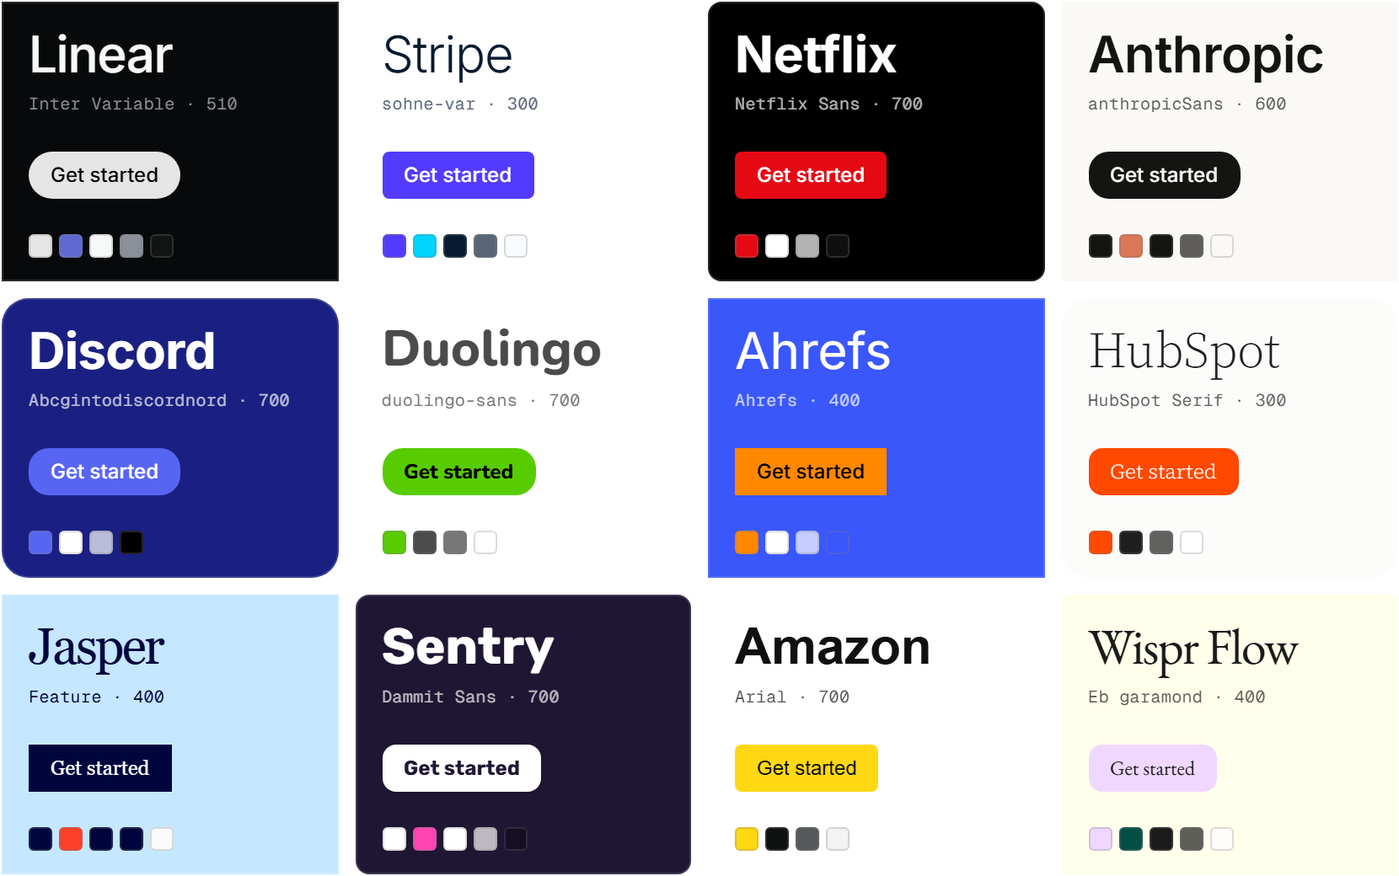
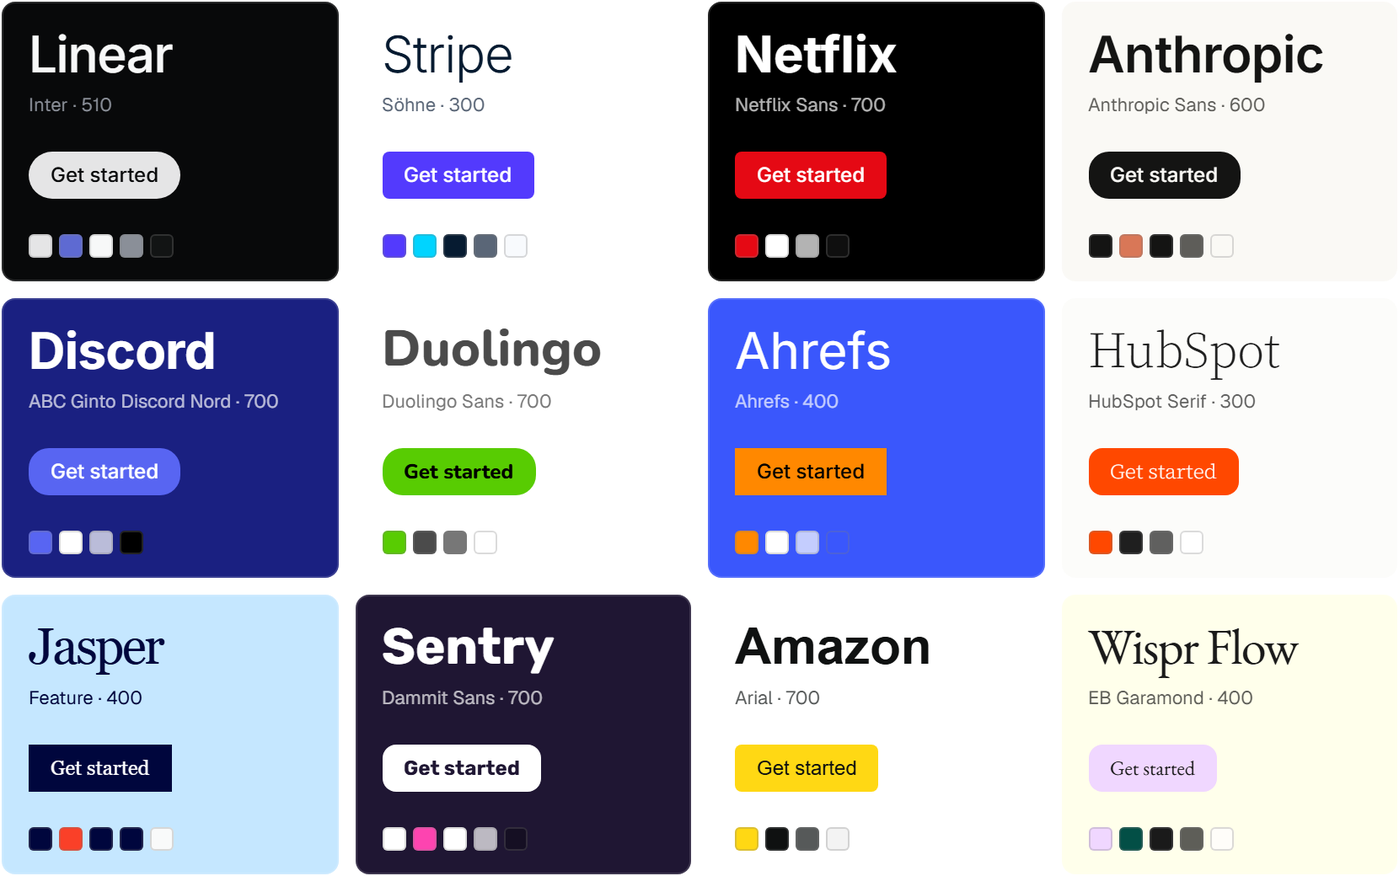
README: say it once, one-line use, a real excerpt, a calmer contact sheet
Short title under the banner and one sentence; no static badges. Use a brand
leads with the curl from brands/<slug>/DESIGN.md, the agent prompt only
downloads the file, and Briefatto Board is a separate optional step. A verbatim
excerpt of brands/linear/DESIGN.md shows the colour tokens and their capture
line. Contact sheet: clean face names from each file, one frame for every card;
the banner keeps only chromatic chips with a hairline. The table drops the Guide
column for one line on the guide URLs; the ranking line is gone.

diff --git a/README.md b/README.md
@@ -5,15 +5,9 @@
   </picture>
 </p>
 
-<p align="center">
-  <a href="LICENSE"><img src="https://img.shields.io/badge/licence-MIT-151515?style=flat-square" alt="MIT licence"></a>
-  <a href="#the-files"><img src="https://img.shields.io/badge/brands-110-2538E8?style=flat-square" alt="110 brands"></a>
-  <a href="https://github.com/Briefatto/briefatto-board"><img src="https://img.shields.io/badge/built%20for-every%20agent-62625D?style=flat-square" alt="Built for every agent"></a>
-</p>
+# DESIGN.md Gallery
 
-# DESIGN.md Gallery: 110 brands, measured from their rendered sites
-
-Drop-in `DESIGN.md` files that every agent reads before visual work. Each holds a brand's colours, type, corner radii, spacing and component rules, measured from the brand's rendered public site and checked with Google's DESIGN.md linter. Each file names the pages and viewports it was measured from.
+Drop-in `DESIGN.md` files for 110 brands that every agent reads before visual work, measured from each brand's rendered public site and checked with Google's DESIGN.md linter.
 
 <p>
   <a href="#the-files">
@@ -24,155 +18,177 @@ Drop-in `DESIGN.md` files that every agent reads before visual work. Each holds 
   </a>
 </p>
 
-<sub>Twelve of the 110, drawn from their tokens: background, display face and weight, primary button, corner radius and palette. Commercial faces are shown in an open stand-in.</sub>
+<sub>Drawn from each brand's tokens: background, display weight, primary button, radius and palette.</sub>
 
-## Use a brand in one line
-
-Paste this into any agent. Swap `linear` for any folder in [`brands/`](brands/).
-
-```text
-Download https://briefatto.com/guides/linear-design-md/DESIGN.md
-and save it as DESIGN.md in the project root.
-Then run `npx briefatto-board install` and follow
-the Briefatto Board skill for all visual work in this project.
-```
-
-Or from a terminal:
+## Use a brand
 
 ```sh
 curl -o DESIGN.md \
   https://raw.githubusercontent.com/Briefatto/design-md-gallery/main/brands/linear/DESIGN.md
+```
+
+Swap `linear` for any folder in [`brands/`](brands/). Or paste this into any agent:
+
+```text
+Download
+https://raw.githubusercontent.com/Briefatto/design-md-gallery/main/brands/linear/DESIGN.md
+and save it as DESIGN.md in the project root.
+```
+
+Optional next step: [Briefatto Board](https://github.com/Briefatto/briefatto-board) versions the guide and checks every piece your agent renders.
+
+```sh
 npx briefatto-board install
 ```
+
+## What a file looks like
+
+The colour tokens from [`brands/linear/DESIGN.md`](brands/linear/DESIGN.md):
+
+```yaml
+colors:
+  primary: "rgb(229, 229, 230)"
+  background: "rgb(8, 9, 10)"
+  surface: "rgb(18, 20, 20)"
+  foreground: "rgb(247, 248, 248)"
+  muted: "rgb(138, 143, 152)"
+  border: "rgb(46, 46, 50)"
+  on-primary: "rgb(8, 9, 10)"
+  accent: "rgb(94, 106, 210)"
+```
+
+And where they came from, in the same file:
+
+> Built from [/](https://linear.app/) and [/pricing](https://linear.app/pricing), captured on 2026-11-21 UTC at 1440×900 and 390×844. The front matter holds the computed values as portable tokens.
 
 ## What every file carries
 
 - **Tokens** in YAML front matter, to Google's DESIGN.md spec: colours, typography, radii, spacing and components.
 - **Prose** an agent can act on: overview, colour roles, components, layout, voice, do's and don'ts.
-- **Where it came from:** for example, "Built from / and /pricing, captured on 2026-11-21 UTC at 1440×900 and 390×844."
+- **Where it came from:** the pages and viewports it was measured from, and the capture date.
 - **A preview** (`preview.png`) of the palette and type.
 
-Each brand's guide on briefatto.com lists the page and viewport behind every colour and radius, and its Markdown version does the same for every spacing step. Every file drops into [Briefatto Board](https://github.com/Briefatto/briefatto-board), which versions the guide and checks every piece your agent renders.
+Each brand's guide on briefatto.com lists the page and viewport behind every colour and radius, and its Markdown version does the same for every spacing step.
 
 Want your own brand instead? Run `npx briefatto-board adopt .` on your site and your agent writes yours.
 
 ## The files
 
-| Brand | File | Guide | Source site |
-| :--- | :--- | :--- | :--- |
-| 10Web | [DESIGN.md](brands/10web/DESIGN.md) | [Guide](https://briefatto.com/guides/10web-design-md/) | 10web.io |
-| 1Password | [DESIGN.md](brands/1password/DESIGN.md) | [Guide](https://briefatto.com/guides/1password-design-md/) | 1password.com |
-| Abridge | [DESIGN.md](brands/abridge/DESIGN.md) | [Guide](https://briefatto.com/guides/abridge-design-md/) | abridge.com |
-| Ahrefs | [DESIGN.md](brands/ahrefs/DESIGN.md) | [Guide](https://briefatto.com/guides/ahrefs-design-md/) | ahrefs.com |
-| Airtable | [DESIGN.md](brands/airtable/DESIGN.md) | [Guide](https://briefatto.com/guides/airtable-design-md/) | airtable.com |
-| Algolia | [DESIGN.md](brands/algolia/DESIGN.md) | [Guide](https://briefatto.com/guides/algolia-design-md/) | algolia.com |
-| Amazon | [DESIGN.md](brands/amazon/DESIGN.md) | [Guide](https://briefatto.com/guides/amazon-design-md/) | www.amazon.com |
-| Animejs | [DESIGN.md](brands/animejs/DESIGN.md) | [Guide](https://briefatto.com/guides/animejs-design-md/) | animejs.com |
-| Annnimate | [DESIGN.md](brands/annnimate/DESIGN.md) | [Guide](https://briefatto.com/guides/annnimate-design-md/) | annnimate.com |
-| Ant Design | [DESIGN.md](brands/ant-design/DESIGN.md) | [Guide](https://briefatto.com/guides/ant-design-design-md/) | ant.design |
-| Anthropic | [DESIGN.md](brands/anthropic/DESIGN.md) | [Guide](https://briefatto.com/guides/anthropic-design-md/) | anthropic.com |
-| Appwrite | [DESIGN.md](brands/appwrite/DESIGN.md) | [Guide](https://briefatto.com/guides/appwrite-design-md/) | appwrite.io |
-| Asana | [DESIGN.md](brands/asana/DESIGN.md) | [Guide](https://briefatto.com/guides/asana-design-md/) | asana.com |
-| Astral | [DESIGN.md](brands/astral/DESIGN.md) | [Guide](https://briefatto.com/guides/astral-design-md/) | astral.sh |
-| Astro | [DESIGN.md](brands/astro/DESIGN.md) | [Guide](https://briefatto.com/guides/astro-design-md/) | astro.build |
-| Attio | [DESIGN.md](brands/attio/DESIGN.md) | [Guide](https://briefatto.com/guides/attio-design-md/) | attio.com |
-| Audi | [DESIGN.md](brands/audi/DESIGN.md) | [Guide](https://briefatto.com/guides/audi-design-md/) | www.audi.com/en |
-| Avenue | [DESIGN.md](brands/avenue/DESIGN.md) | [Guide](https://briefatto.com/guides/avenue-design-md/) | avenue.app |
-| Base44 | [DESIGN.md](brands/base44/DESIGN.md) | [Guide](https://briefatto.com/guides/base44-design-md/) | base44.com |
-| beehiiv | [DESIGN.md](brands/beehiiv/DESIGN.md) | [Guide](https://briefatto.com/guides/beehiiv-design-md/) | www.beehiiv.com |
-| Biome | [DESIGN.md](brands/biome/DESIGN.md) | [Guide](https://briefatto.com/guides/biome-design-md/) | biomejs.dev |
-| Bulma | [DESIGN.md](brands/bulma/DESIGN.md) | [Guide](https://briefatto.com/guides/bulma-design-md/) | bulma.io |
-| Bun | [DESIGN.md](brands/bun/DESIGN.md) | [Guide](https://briefatto.com/guides/bun-design-md/) | bun.sh |
-| Calendly | [DESIGN.md](brands/calendly/DESIGN.md) | [Guide](https://briefatto.com/guides/calendly-design-md/) | calendly.com |
-| Chromatic | [DESIGN.md](brands/chromatic/DESIGN.md) | [Guide](https://briefatto.com/guides/chromatic-design-md/) | chromatic.com |
-| Circle | [DESIGN.md](brands/circle/DESIGN.md) | [Guide](https://briefatto.com/guides/circle-design-md/) | circle.so |
-| Clay | [DESIGN.md](brands/clay/DESIGN.md) | [Guide](https://briefatto.com/guides/clay-design-md/) | clay.com |
-| Clerk | [DESIGN.md](brands/clerk/DESIGN.md) | [Guide](https://briefatto.com/guides/clerk-design-md/) | clerk.com |
-| ClickUp | [DESIGN.md](brands/clickup/DESIGN.md) | [Guide](https://briefatto.com/guides/clickup-design-md/) | clickup.com |
-| Cline | [DESIGN.md](brands/cline/DESIGN.md) | [Guide](https://briefatto.com/guides/cline-design-md/) | cline.bot |
-| Cloudflare | [DESIGN.md](brands/cloudflare/DESIGN.md) | [Guide](https://briefatto.com/guides/cloudflare-design-md/) | www.cloudflare.com |
-| Cohere | [DESIGN.md](brands/cohere/DESIGN.md) | [Guide](https://briefatto.com/guides/cohere-design-md/) | cohere.com |
-| Copilot | [DESIGN.md](brands/copilot/DESIGN.md) | [Guide](https://briefatto.com/guides/copilot-design-md/) | copilot.app |
-| Craft | [DESIGN.md](brands/craft/DESIGN.md) | [Guide](https://briefatto.com/guides/craft-design-md/) | www.craft.do |
-| CTS Network | [DESIGN.md](brands/cts-network/DESIGN.md) | [Guide](https://briefatto.com/guides/cts-network-design-md/) | ctsnetwork.id |
-| Datadog | [DESIGN.md](brands/datadog/DESIGN.md) | [Guide](https://briefatto.com/guides/datadog-design-md/) | www.datadoghq.com |
-| Deno | [DESIGN.md](brands/deno/DESIGN.md) | [Guide](https://briefatto.com/guides/deno-design-md/) | deno.com |
-| DevInsight | [DESIGN.md](brands/devinsight/DESIGN.md) | [Guide](https://briefatto.com/guides/devinsight-design-md/) | devinsight.ai |
-| Discord | [DESIGN.md](brands/discord/DESIGN.md) | [Guide](https://briefatto.com/guides/discord-design-md/) | discord.com |
-| Dribbble | [DESIGN.md](brands/dribbble/DESIGN.md) | [Guide](https://briefatto.com/guides/dribbble-design-md/) | dribbble.com |
-| Dropbox | [DESIGN.md](brands/dropbox/DESIGN.md) | [Guide](https://briefatto.com/guides/dropbox-design-md/) | dropbox.com |
-| Duolingo | [DESIGN.md](brands/duolingo/DESIGN.md) | [Guide](https://briefatto.com/guides/duolingo-design-md/) | www.duolingo.com |
-| ElevenLabs | [DESIGN.md](brands/elevenlabs/DESIGN.md) | [Guide](https://briefatto.com/guides/elevenlabs-design-md/) | elevenlabs.io |
-| Figma | [DESIGN.md](brands/figma/DESIGN.md) | [Guide](https://briefatto.com/guides/figma-design-md/) | figma.com |
-| Fin | [DESIGN.md](brands/fin/DESIGN.md) | [Guide](https://briefatto.com/guides/fin-design-md/) | fin.ai |
-| Firebase | [DESIGN.md](brands/firebase/DESIGN.md) | [Guide](https://briefatto.com/guides/firebase-design-md/) | firebase.google.com |
-| Firecrawl | [DESIGN.md](brands/firecrawl/DESIGN.md) | [Guide](https://briefatto.com/guides/firecrawl-design-md/) | www.firecrawl.dev |
-| Framer | [DESIGN.md](brands/framer/DESIGN.md) | [Guide](https://briefatto.com/guides/framer-design-md/) | framer.com |
-| Gemini CLI | [DESIGN.md](brands/gemini-cli/DESIGN.md) | [Guide](https://briefatto.com/guides/gemini-cli-design-md/) | geminicli.com |
-| Ghost | [DESIGN.md](brands/ghost/DESIGN.md) | [Guide](https://briefatto.com/guides/ghost-design-md/) | ghost.org |
-| GitHub | [DESIGN.md](brands/github/DESIGN.md) | [Guide](https://briefatto.com/guides/github-design-md/) | github.com |
-| Glean | [DESIGN.md](brands/glean/DESIGN.md) | [Guide](https://briefatto.com/guides/glean-design-md/) | glean.com |
-| Google | [DESIGN.md](brands/google/DESIGN.md) | [Guide](https://briefatto.com/guides/google-design-md/) | about.google |
-| Grammarly | [DESIGN.md](brands/grammarly/DESIGN.md) | [Guide](https://briefatto.com/guides/grammarly-design-md/) | grammarly.com |
-| Granola | [DESIGN.md](brands/granola/DESIGN.md) | [Guide](https://briefatto.com/guides/granola-design-md/) | granola.ai |
-| HeyGen | [DESIGN.md](brands/heygen/DESIGN.md) | [Guide](https://briefatto.com/guides/heygen-design-md/) | heygen.com |
-| HubSpot | [DESIGN.md](brands/hubspot/DESIGN.md) | [Guide](https://briefatto.com/guides/hubspot-design-md/) | hubspot.com |
-| Hugging Face | [DESIGN.md](brands/hugging-face/DESIGN.md) | [Guide](https://briefatto.com/guides/hugging-face-design-md/) | huggingface.co |
-| Hypergryph | [DESIGN.md](brands/hypergryph/DESIGN.md) | [Guide](https://briefatto.com/guides/hypergryph-design-md/) | www.hypergryph.com |
-| Intercom | [DESIGN.md](brands/intercom/DESIGN.md) | [Guide](https://briefatto.com/guides/intercom-design-md/) | intercom.com |
-| Jasper | [DESIGN.md](brands/jasper/DESIGN.md) | [Guide](https://briefatto.com/guides/jasper-design-md/) | jasper.ai |
-| Linear | [DESIGN.md](brands/linear/DESIGN.md) | [Guide](https://briefatto.com/guides/linear-design-md/) | linear.app |
-| Loom | [DESIGN.md](brands/loom/DESIGN.md) | [Guide](https://briefatto.com/guides/loom-design-md/) | loom.com |
-| Lovart | [DESIGN.md](brands/lovart/DESIGN.md) | [Guide](https://briefatto.com/guides/lovart-design-md/) | www.lovart.ai |
-| Mailchimp | [DESIGN.md](brands/mailchimp/DESIGN.md) | [Guide](https://briefatto.com/guides/mailchimp-design-md/) | mailchimp.com |
-| Mintlify | [DESIGN.md](brands/mintlify/DESIGN.md) | [Guide](https://briefatto.com/guides/mintlify-design-md/) | mintlify.com |
-| Miro | [DESIGN.md](brands/miro/DESIGN.md) | [Guide](https://briefatto.com/guides/miro-design-md/) | miro.com |
-| Mistral AI | [DESIGN.md](brands/mistral-ai/DESIGN.md) | [Guide](https://briefatto.com/guides/mistral-ai-design-md/) | mistral.ai |
-| Mixpanel | [DESIGN.md](brands/mixpanel/DESIGN.md) | [Guide](https://briefatto.com/guides/mixpanel-design-md/) | mixpanel.com |
-| Modal | [DESIGN.md](brands/modal/DESIGN.md) | [Guide](https://briefatto.com/guides/modal-design-md/) | modal.com |
-| Monday.com | [DESIGN.md](brands/monday-com/DESIGN.md) | [Guide](https://briefatto.com/guides/monday-com-design-md/) | monday.com |
-| NASA | [DESIGN.md](brands/nasa/DESIGN.md) | [Guide](https://briefatto.com/guides/nasa-design-md/) | www.nasa.gov |
-| Neon | [DESIGN.md](brands/neon/DESIGN.md) | [Guide](https://briefatto.com/guides/neon-design-md/) | neon.com |
-| Netflix | [DESIGN.md](brands/netflix/DESIGN.md) | [Guide](https://briefatto.com/guides/netflix-design-md/) | www.netflix.com |
-| Nothing | [DESIGN.md](brands/nothing/DESIGN.md) | [Guide](https://briefatto.com/guides/nothing-design-md/) | nothing.tech |
-| Notion | [DESIGN.md](brands/notion/DESIGN.md) | [Guide](https://briefatto.com/guides/notion-design-md/) | notion.com |
-| OpenClaw | [DESIGN.md](brands/openclaw/DESIGN.md) | [Guide](https://briefatto.com/guides/openclaw-design-md/) | openclaw.ai |
-| Otter.ai | [DESIGN.md](brands/otter-ai/DESIGN.md) | [Guide](https://briefatto.com/guides/otter-ai-design-md/) | otter.ai |
-| Palantir | [DESIGN.md](brands/palantir/DESIGN.md) | [Guide](https://briefatto.com/guides/palantir-design-md/) | www.palantir.com |
-| Perplexity | [DESIGN.md](brands/perplexity/DESIGN.md) | [Guide](https://briefatto.com/guides/perplexity-design-md/) | www.perplexity.ai |
-| Porsche | [DESIGN.md](brands/porsche/DESIGN.md) | [Guide](https://briefatto.com/guides/porsche-design-md/) | www.porsche.com/usa |
-| Prisma | [DESIGN.md](brands/prisma/DESIGN.md) | [Guide](https://briefatto.com/guides/prisma-design-md/) | prisma.io |
-| Proton | [DESIGN.md](brands/proton/DESIGN.md) | [Guide](https://briefatto.com/guides/proton-design-md/) | proton.me |
-| Railway | [DESIGN.md](brands/railway/DESIGN.md) | [Guide](https://briefatto.com/guides/railway-design-md/) | railway.com |
-| Ramp | [DESIGN.md](brands/ramp/DESIGN.md) | [Guide](https://briefatto.com/guides/ramp-design-md/) | ramp.com |
-| Resend | [DESIGN.md](brands/resend/DESIGN.md) | [Guide](https://briefatto.com/guides/resend-design-md/) | resend.com |
-| Runway | [DESIGN.md](brands/runway/DESIGN.md) | [Guide](https://briefatto.com/guides/runway-design-md/) | runwayml.com |
-| Samsung | [DESIGN.md](brands/samsung/DESIGN.md) | [Guide](https://briefatto.com/guides/samsung-design-md/) | www.samsung.com/us |
-| Sarvam AI | [DESIGN.md](brands/sarvam-ai/DESIGN.md) | [Guide](https://briefatto.com/guides/sarvam-ai-design-md/) | www.sarvam.ai |
-| Scale AI | [DESIGN.md](brands/scale-ai/DESIGN.md) | [Guide](https://briefatto.com/guides/scale-ai-design-md/) | scale.com |
-| Semrush | [DESIGN.md](brands/semrush/DESIGN.md) | [Guide](https://briefatto.com/guides/semrush-design-md/) | www.semrush.com |
-| Sentry | [DESIGN.md](brands/sentry/DESIGN.md) | [Guide](https://briefatto.com/guides/sentry-design-md/) | sentry.io |
-| Shopify | [DESIGN.md](brands/shopify/DESIGN.md) | [Guide](https://briefatto.com/guides/shopify-design-md/) | shopify.com |
-| Sierra | [DESIGN.md](brands/sierra/DESIGN.md) | [Guide](https://briefatto.com/guides/sierra-design-md/) | sierra.ai |
-| Slack | [DESIGN.md](brands/slack/DESIGN.md) | [Guide](https://briefatto.com/guides/slack-design-md/) | slack.com |
-| Stripe | [DESIGN.md](brands/stripe/DESIGN.md) | [Guide](https://briefatto.com/guides/stripe-design-md/) | stripe.com |
-| Supabase | [DESIGN.md](brands/supabase/DESIGN.md) | [Guide](https://briefatto.com/guides/supabase-design-md/) | supabase.com |
-| Synthesia | [DESIGN.md](brands/synthesia/DESIGN.md) | [Guide](https://briefatto.com/guides/synthesia-design-md/) | synthesia.io |
-| Tailwind CSS | [DESIGN.md](brands/tailwind-css/DESIGN.md) | [Guide](https://briefatto.com/guides/tailwind-css-design-md/) | tailwindcss.com |
-| Toss | [DESIGN.md](brands/toss/DESIGN.md) | [Guide](https://briefatto.com/guides/toss-design-md/) | toss.im |
-| Twilio | [DESIGN.md](brands/twilio/DESIGN.md) | [Guide](https://briefatto.com/guides/twilio-design-md/) | twilio.com |
-| Ubiquiti | [DESIGN.md](brands/ubiquiti/DESIGN.md) | [Guide](https://briefatto.com/guides/ubiquiti-design-md/) | ui.com |
-| v0 | [DESIGN.md](brands/v0/DESIGN.md) | [Guide](https://briefatto.com/guides/v0-design-md/) | v0.app |
-| Vercel | [DESIGN.md](brands/vercel/DESIGN.md) | [Guide](https://briefatto.com/guides/vercel-design-md/) | vercel.com |
-| Webflow | [DESIGN.md](brands/webflow/DESIGN.md) | [Guide](https://briefatto.com/guides/webflow-design-md/) | webflow.com |
-| WhatsApp | [DESIGN.md](brands/whatsapp/DESIGN.md) | [Guide](https://briefatto.com/guides/whatsapp-design-md/) | www.whatsapp.com |
-| Wispr Flow | [DESIGN.md](brands/wispr-flow/DESIGN.md) | [Guide](https://briefatto.com/guides/wispr-flow-design-md/) | wisprflow.ai |
-| Zapier | [DESIGN.md](brands/zapier/DESIGN.md) | [Guide](https://briefatto.com/guides/zapier-design-md/) | zapier.com |
-| Zed | [DESIGN.md](brands/zed/DESIGN.md) | [Guide](https://briefatto.com/guides/zed-design-md/) | zed.dev |
-| Zoom | [DESIGN.md](brands/zoom/DESIGN.md) | [Guide](https://briefatto.com/guides/zoom-design-md/) | zoom.com |
+Each brand also has a guide on briefatto.com: `briefatto.com/guides/<slug>-design-md/`.
 
-Ranked by design: [developer tools](https://briefatto.com/guides/best-designed-developer-tool-websites-2026/), [AI products](https://briefatto.com/guides/best-designed-ai-websites-2026/) and [SaaS](https://briefatto.com/guides/best-designed-saas-websites-2026/). Every guide page on [briefatto.com](https://briefatto.com/guides/) shows the palette, type and a sample card, with a Markdown version for agents.
+| Brand | DESIGN.md | Source site |
+| :--- | :--- | :--- |
+| 10Web | [DESIGN.md](brands/10web/DESIGN.md) | 10web.io |
+| 1Password | [DESIGN.md](brands/1password/DESIGN.md) | 1password.com |
+| Abridge | [DESIGN.md](brands/abridge/DESIGN.md) | abridge.com |
+| Ahrefs | [DESIGN.md](brands/ahrefs/DESIGN.md) | ahrefs.com |
+| Airtable | [DESIGN.md](brands/airtable/DESIGN.md) | airtable.com |
+| Algolia | [DESIGN.md](brands/algolia/DESIGN.md) | algolia.com |
+| Amazon | [DESIGN.md](brands/amazon/DESIGN.md) | www.amazon.com |
+| Animejs | [DESIGN.md](brands/animejs/DESIGN.md) | animejs.com |
+| Annnimate | [DESIGN.md](brands/annnimate/DESIGN.md) | annnimate.com |
+| Ant Design | [DESIGN.md](brands/ant-design/DESIGN.md) | ant.design |
+| Anthropic | [DESIGN.md](brands/anthropic/DESIGN.md) | anthropic.com |
+| Appwrite | [DESIGN.md](brands/appwrite/DESIGN.md) | appwrite.io |
+| Asana | [DESIGN.md](brands/asana/DESIGN.md) | asana.com |
+| Astral | [DESIGN.md](brands/astral/DESIGN.md) | astral.sh |
+| Astro | [DESIGN.md](brands/astro/DESIGN.md) | astro.build |
+| Attio | [DESIGN.md](brands/attio/DESIGN.md) | attio.com |
+| Audi | [DESIGN.md](brands/audi/DESIGN.md) | www.audi.com/en |
+| Avenue | [DESIGN.md](brands/avenue/DESIGN.md) | avenue.app |
+| Base44 | [DESIGN.md](brands/base44/DESIGN.md) | base44.com |
+| beehiiv | [DESIGN.md](brands/beehiiv/DESIGN.md) | www.beehiiv.com |
+| Biome | [DESIGN.md](brands/biome/DESIGN.md) | biomejs.dev |
+| Bulma | [DESIGN.md](brands/bulma/DESIGN.md) | bulma.io |
+| Bun | [DESIGN.md](brands/bun/DESIGN.md) | bun.sh |
+| Calendly | [DESIGN.md](brands/calendly/DESIGN.md) | calendly.com |
+| Chromatic | [DESIGN.md](brands/chromatic/DESIGN.md) | chromatic.com |
+| Circle | [DESIGN.md](brands/circle/DESIGN.md) | circle.so |
+| Clay | [DESIGN.md](brands/clay/DESIGN.md) | clay.com |
+| Clerk | [DESIGN.md](brands/clerk/DESIGN.md) | clerk.com |
+| ClickUp | [DESIGN.md](brands/clickup/DESIGN.md) | clickup.com |
+| Cline | [DESIGN.md](brands/cline/DESIGN.md) | cline.bot |
+| Cloudflare | [DESIGN.md](brands/cloudflare/DESIGN.md) | www.cloudflare.com |
+| Cohere | [DESIGN.md](brands/cohere/DESIGN.md) | cohere.com |
+| Copilot | [DESIGN.md](brands/copilot/DESIGN.md) | copilot.app |
+| Craft | [DESIGN.md](brands/craft/DESIGN.md) | www.craft.do |
+| CTS Network | [DESIGN.md](brands/cts-network/DESIGN.md) | ctsnetwork.id |
+| Datadog | [DESIGN.md](brands/datadog/DESIGN.md) | www.datadoghq.com |
+| Deno | [DESIGN.md](brands/deno/DESIGN.md) | deno.com |
+| DevInsight | [DESIGN.md](brands/devinsight/DESIGN.md) | devinsight.ai |
+| Discord | [DESIGN.md](brands/discord/DESIGN.md) | discord.com |
+| Dribbble | [DESIGN.md](brands/dribbble/DESIGN.md) | dribbble.com |
+| Dropbox | [DESIGN.md](brands/dropbox/DESIGN.md) | dropbox.com |
+| Duolingo | [DESIGN.md](brands/duolingo/DESIGN.md) | www.duolingo.com |
+| ElevenLabs | [DESIGN.md](brands/elevenlabs/DESIGN.md) | elevenlabs.io |
+| Figma | [DESIGN.md](brands/figma/DESIGN.md) | figma.com |
+| Fin | [DESIGN.md](brands/fin/DESIGN.md) | fin.ai |
+| Firebase | [DESIGN.md](brands/firebase/DESIGN.md) | firebase.google.com |
+| Firecrawl | [DESIGN.md](brands/firecrawl/DESIGN.md) | www.firecrawl.dev |
+| Framer | [DESIGN.md](brands/framer/DESIGN.md) | framer.com |
+| Gemini CLI | [DESIGN.md](brands/gemini-cli/DESIGN.md) | geminicli.com |
+| Ghost | [DESIGN.md](brands/ghost/DESIGN.md) | ghost.org |
+| GitHub | [DESIGN.md](brands/github/DESIGN.md) | github.com |
+| Glean | [DESIGN.md](brands/glean/DESIGN.md) | glean.com |
+| Google | [DESIGN.md](brands/google/DESIGN.md) | about.google |
+| Grammarly | [DESIGN.md](brands/grammarly/DESIGN.md) | grammarly.com |
+| Granola | [DESIGN.md](brands/granola/DESIGN.md) | granola.ai |
+| HeyGen | [DESIGN.md](brands/heygen/DESIGN.md) | heygen.com |
+| HubSpot | [DESIGN.md](brands/hubspot/DESIGN.md) | hubspot.com |
+| Hugging Face | [DESIGN.md](brands/hugging-face/DESIGN.md) | huggingface.co |
+| Hypergryph | [DESIGN.md](brands/hypergryph/DESIGN.md) | www.hypergryph.com |
+| Intercom | [DESIGN.md](brands/intercom/DESIGN.md) | intercom.com |
+| Jasper | [DESIGN.md](brands/jasper/DESIGN.md) | jasper.ai |
+| Linear | [DESIGN.md](brands/linear/DESIGN.md) | linear.app |
+| Loom | [DESIGN.md](brands/loom/DESIGN.md) | loom.com |
+| Lovart | [DESIGN.md](brands/lovart/DESIGN.md) | www.lovart.ai |
+| Mailchimp | [DESIGN.md](brands/mailchimp/DESIGN.md) | mailchimp.com |
+| Mintlify | [DESIGN.md](brands/mintlify/DESIGN.md) | mintlify.com |
+| Miro | [DESIGN.md](brands/miro/DESIGN.md) | miro.com |
+| Mistral AI | [DESIGN.md](brands/mistral-ai/DESIGN.md) | mistral.ai |
+| Mixpanel | [DESIGN.md](brands/mixpanel/DESIGN.md) | mixpanel.com |
+| Modal | [DESIGN.md](brands/modal/DESIGN.md) | modal.com |
+| Monday.com | [DESIGN.md](brands/monday-com/DESIGN.md) | monday.com |
+| NASA | [DESIGN.md](brands/nasa/DESIGN.md) | www.nasa.gov |
+| Neon | [DESIGN.md](brands/neon/DESIGN.md) | neon.com |
+| Netflix | [DESIGN.md](brands/netflix/DESIGN.md) | www.netflix.com |
+| Nothing | [DESIGN.md](brands/nothing/DESIGN.md) | nothing.tech |
+| Notion | [DESIGN.md](brands/notion/DESIGN.md) | notion.com |
+| OpenClaw | [DESIGN.md](brands/openclaw/DESIGN.md) | openclaw.ai |
+| Otter.ai | [DESIGN.md](brands/otter-ai/DESIGN.md) | otter.ai |
+| Palantir | [DESIGN.md](brands/palantir/DESIGN.md) | www.palantir.com |
+| Perplexity | [DESIGN.md](brands/perplexity/DESIGN.md) | www.perplexity.ai |
+| Porsche | [DESIGN.md](brands/porsche/DESIGN.md) | www.porsche.com/usa |
+| Prisma | [DESIGN.md](brands/prisma/DESIGN.md) | prisma.io |
+| Proton | [DESIGN.md](brands/proton/DESIGN.md) | proton.me |
+| Railway | [DESIGN.md](brands/railway/DESIGN.md) | railway.com |
+| Ramp | [DESIGN.md](brands/ramp/DESIGN.md) | ramp.com |
+| Resend | [DESIGN.md](brands/resend/DESIGN.md) | resend.com |
+| Runway | [DESIGN.md](brands/runway/DESIGN.md) | runwayml.com |
+| Samsung | [DESIGN.md](brands/samsung/DESIGN.md) | www.samsung.com/us |
+| Sarvam AI | [DESIGN.md](brands/sarvam-ai/DESIGN.md) | www.sarvam.ai |
+| Scale AI | [DESIGN.md](brands/scale-ai/DESIGN.md) | scale.com |
+| Semrush | [DESIGN.md](brands/semrush/DESIGN.md) | www.semrush.com |
+| Sentry | [DESIGN.md](brands/sentry/DESIGN.md) | sentry.io |
+| Shopify | [DESIGN.md](brands/shopify/DESIGN.md) | shopify.com |
+| Sierra | [DESIGN.md](brands/sierra/DESIGN.md) | sierra.ai |
+| Slack | [DESIGN.md](brands/slack/DESIGN.md) | slack.com |
+| Stripe | [DESIGN.md](brands/stripe/DESIGN.md) | stripe.com |
+| Supabase | [DESIGN.md](brands/supabase/DESIGN.md) | supabase.com |
+| Synthesia | [DESIGN.md](brands/synthesia/DESIGN.md) | synthesia.io |
+| Tailwind CSS | [DESIGN.md](brands/tailwind-css/DESIGN.md) | tailwindcss.com |
+| Toss | [DESIGN.md](brands/toss/DESIGN.md) | toss.im |
+| Twilio | [DESIGN.md](brands/twilio/DESIGN.md) | twilio.com |
+| Ubiquiti | [DESIGN.md](brands/ubiquiti/DESIGN.md) | ui.com |
+| v0 | [DESIGN.md](brands/v0/DESIGN.md) | v0.app |
+| Vercel | [DESIGN.md](brands/vercel/DESIGN.md) | vercel.com |
+| Webflow | [DESIGN.md](brands/webflow/DESIGN.md) | webflow.com |
+| WhatsApp | [DESIGN.md](brands/whatsapp/DESIGN.md) | www.whatsapp.com |
+| Wispr Flow | [DESIGN.md](brands/wispr-flow/DESIGN.md) | wisprflow.ai |
+| Zapier | [DESIGN.md](brands/zapier/DESIGN.md) | zapier.com |
+| Zed | [DESIGN.md](brands/zed/DESIGN.md) | zed.dev |
+| Zoom | [DESIGN.md](brands/zoom/DESIGN.md) | zoom.com |
 
-## Licence
+## License
 
 MIT. Brand names are trademarks of their owners; these style files are not affiliated with or endorsed by them.
